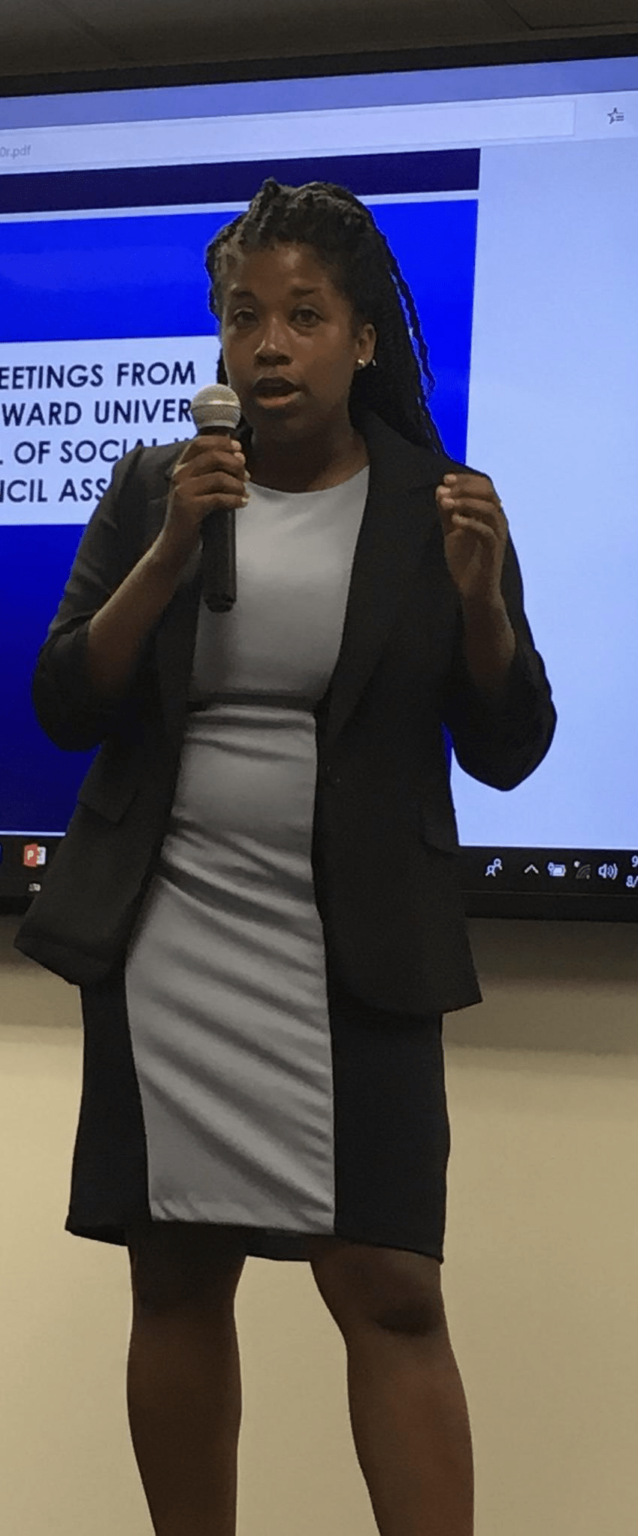
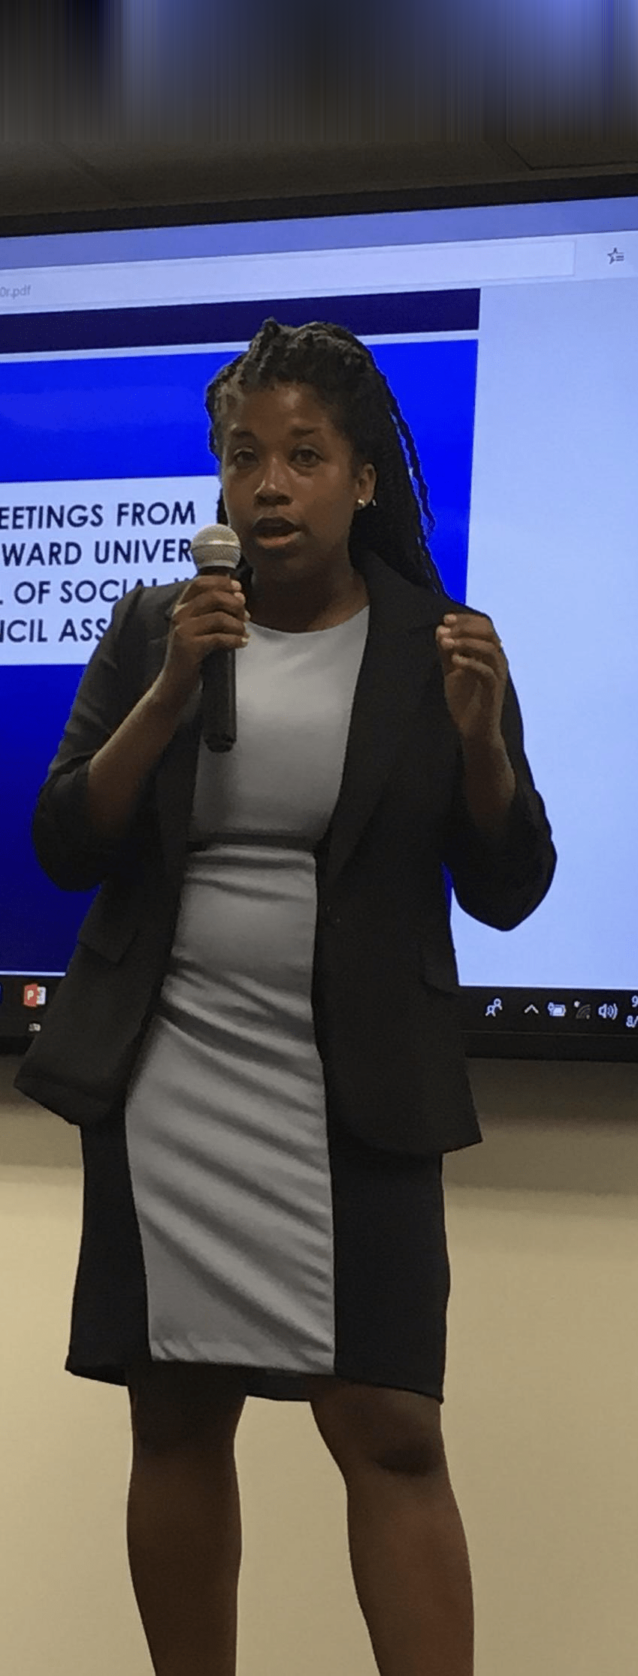
Add workshop images and refine layout in services pages
- Added a new workshop image to the project.
- Updated the layout of the services and workshops pages for better responsiveness and visual appeal.
- Adjusted image properties for improved display on various screen sizes.

diff --git a/src/app/(frontend)/services/page.tsx b/src/app/(frontend)/services/page.tsx
@@ -159,13 +159,13 @@ export default function ServicesPage() {
 
       <section id="workshops" className="border-t border-[var(--line)] bg-[var(--brand)] text-[var(--brand-contrast)]">
         <div className="mx-auto grid max-w-6xl items-center gap-10 px-5 py-16 md:grid-cols-2 md:px-8 md:py-24">
-          <div className="relative aspect-[3/4] max-h-[540px] overflow-hidden rounded-[2rem]">
+          <div className="relative mx-auto aspect-[3/4] w-full max-w-sm overflow-hidden rounded-[2rem] md:mx-0">
             <Image
               src="/images/services/workshop.png"
               alt="Self-care wellness workshop materials and interactive session"
               fill
-              className="object-cover"
-              sizes="(max-width: 768px) 100vw, 50vw"
+              className="object-cover object-top"
+              sizes="(max-width: 768px) 100vw, 24rem"
             />
           </div>
           <div>

diff --git a/src/app/(frontend)/services/workshops/page.tsx b/src/app/(frontend)/services/workshops/page.tsx
@@ -46,13 +46,13 @@ export default function WorkshopsPage() {
             <Button href="/contact">Inquire about a workshop</Button>
           </div>
         </div>
-        <div className="relative aspect-[3/4] overflow-hidden rounded-[2rem]">
+        <div className="relative mx-auto aspect-[3/4] w-full max-w-md overflow-hidden rounded-[2rem] md:mx-0 md:max-w-none">
           <Image
             src="/images/services/workshop.png"
             alt="Interactive self-care wellness workshop materials"
             fill
             priority
-            className="object-cover"
+            className="object-cover object-top"
             sizes="(max-width: 768px) 100vw, 50vw"
           />
         </div>
